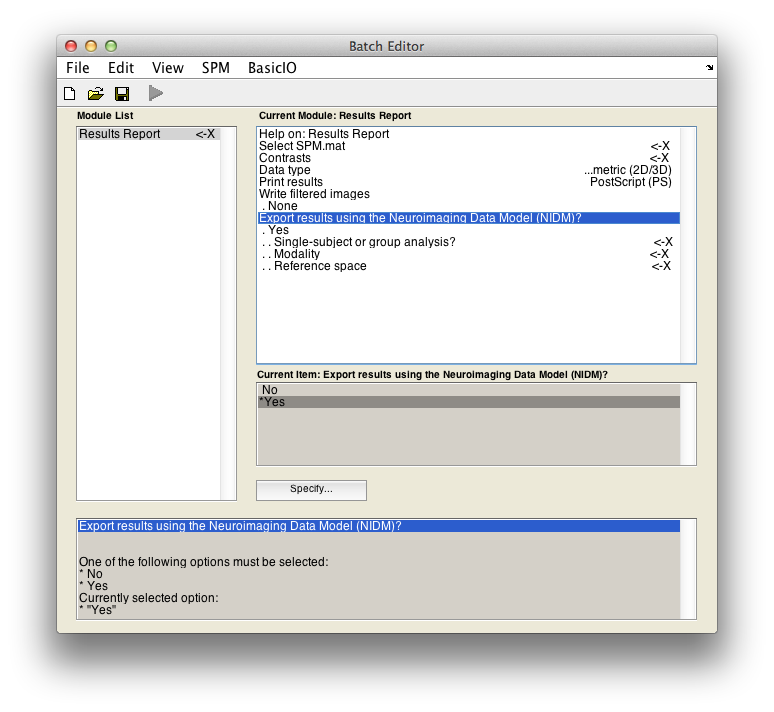
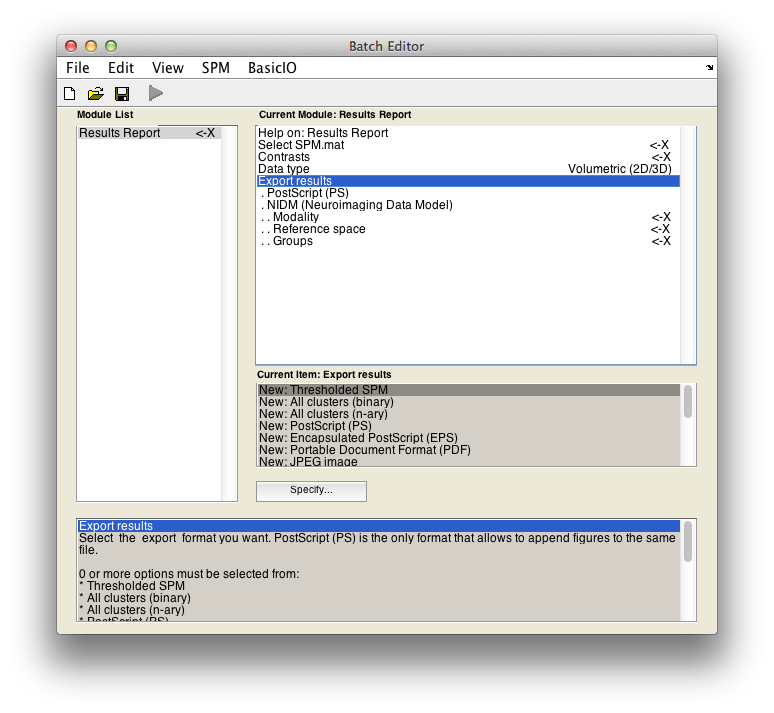
Update doc

Changed region(s): [[0.093, 0.1236, 0.8992, 0.8961]]

diff --git a/README.md b/README.md
@@ -15,8 +15,8 @@ A *NIDM-Results pack* is a compressed file containing a NIDM-Results serializati
  1. Open the menu `SPM` > `Stats` > `Results Report` (Fig. 1.)
  3. In the batch window  (Fig. 2.)
   - Fill in information about the results you are interested in (in particular `SPM.mat` file, contrast number, threshold, etc.)
-  - In `Export results using the Neuroimaging Data Model (NIDM)?`, selected `Yes`
-  - Fill in information about your analysis (`Single-subject analysis`/`Group analysis`, `Modality`, `Reference space`, etc.) 
+  - In `Export results`, selected `New: NIDM (Neuroimaging Data Model)`
+  - Fill in information about your analysis (`Modality`, `Reference space`, `Groups`etc.``) 
 
 <img src="doc/batch_results_report.png" width="500">            |  <img src="doc/batch_export_NIDM.png" width="500">
 :-------------------------:|:-------------------------:
@@ -27,26 +27,7 @@ A *NIDM-Results pack* is a compressed file containing a NIDM-Results serializati
   - [SPM12](http://www.fil.ion.ucl.ac.uk/spm/software/spm12/)
 
 ##### Installation
-Download the latest release (**12.575ac2c**)
-```
-curl -sLo -  https://github.com/incf-nidash/nidmresults-spm/archive/12.575ac2c.tar.gz | tar xzvf -
-export exporter_path=`pwd`/nidmresults-spm-12.575ac2c/exporter
-```
-Copy the core SPM files modified by the exporter (replace by `<PATH_TO_SPM>` by the full path to your spm installation)
-```
-export spm_path="<PATH_TO_SPM>"
-cp -p $spm_path/config/spm_cfg_results.m $spm_path/config/spm_cfg_results_ORIGINAL.m
-cp -p $spm_path/config/spm_run_results.m $spm_path/config/spm_run_results_ORIGINAL.m
-cp -p $exporter_path/spm_cfg_results.m $spm_path/config/spm_cfg_results.m
-cp -p $exporter_path/spm_run_results.m $spm_path/config/spm_run_results.m
-```
-In Matlab, update your path (replace by `<PATH_TO_SPM>` by the output of `echo $spm_path` and `<PATH_TO_EXPORTER>` by the output of `echo $exporter_path`)
- ```
- addpath('<PATH_TO_SPM>')
- addpath('<PATH_TO_EXPORTER>')
- ```
-
- 
+  - The latest version of the NIDM exporter in available in the last SPM release (v. xx)
 
 
 ##### Tests
